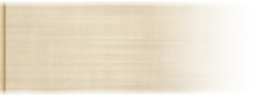
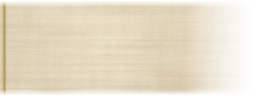
The quest pin stays red on the ashen strip, waits where the strip is drawn, and is one pin per place
From the 1600x900 captures: in Cinderlea the deep variant's blue-grey pin was lost on the grey
strip; a pin behind you waited past the strip's faded end; Wren and Merrowby stacked two pins
on one bearing; and the tracker's text ran into its plate's long fade. The fight points at the
stage's stand_at spot until its foes stand.

Claude-Session: https://claude.ai/code/session_0112mWM76VHFrF6Lkz5ygd61

Changed region(s): [[0.6562, 0.0625, 0.8125, 0.9688]]

diff --git a/tools/ui/gen_ui_textures.py b/tools/ui/gen_ui_textures.py
@@ -1375,7 +1375,7 @@ def quest_plate(rng, pal, w: int = 256, h: int = 96) -> Image.Image:
     arr[..., :3] = np.clip(arr[..., :3] + hi[..., None] * 38.0, 0, 255)
     # feathered: gone by the right edge, soft at top and bottom, a ragged fibre edge throughout
     ragged = fbm(w, h, rng, octaves=3, base=6, persistence=0.6)
-    fade_r = np.clip(((w - 1) - xs) / (w * 0.42), 0.0, 1.0) ** 1.3
+    fade_r = np.clip(((w - 1) - xs) / (w * 0.27), 0.0, 1.0) ** 1.3
     fade_v = np.clip(np.minimum(ys, (h - 1) - ys) / (5.0 + 3.0 * ragged), 0.0, 1.0)
     arr[..., 3] = 255.0 * fade_r * fade_v * 0.86
     return Image.fromarray(np.clip(arr, 0, 255).astype(np.uint8), "RGBA")
@@ -1613,7 +1613,7 @@ def build(out: Path, only: str = "") -> dict:
     if want("quest"):
         for variant, qpal in PALETTES.items():
             sfx = "" if variant == "warm" else "_deep"
-            put(f"quest_plate{sfx}", quest_plate(_rng("quest_plate" + sfx), qpal), margin=[12, 12, 110, 12])
+            put(f"quest_plate{sfx}", quest_plate(_rng("quest_plate" + sfx), qpal), margin=[12, 12, 72, 12])
             manifest["variants"].setdefault(variant, {})["quest_plate"] = f"quest_plate{sfx}"
             put(f"quest_pin{sfx}", quest_pin(_rng("quest_pin" + sfx), qpal))
             manifest["variants"][variant]["quest_pin"] = f"quest_pin{sfx}"

diff --git a/DESIGN.md b/DESIGN.md
@@ -445,13 +445,13 @@ land, the stakes, then you — and it is about ninety seconds long.
   pointed at. An objective may keep its own counsel only by saying `"hidden": true` and why
   (`"hidden_why"`); the audit (`tests/unit/test_waymarks.gd`) walks every objective of every stage
   of every quest and fails on any other that points nowhere. Other quests are not drawn on the strip.
-* On the strip each tracked objective is a pin of red sealing wax on a brass ring (bronze and ash
-  in deep places), over the place glyphs; one behind you waits at the end of the strip on the side
+* On the strip each tracked objective is a pin of red sealing wax on a brass ring (red in deep
+  places too: a bronze pin was lost on the ashen strip), over the place glyphs; one behind you waits at the end of the strip on the side
   to turn to. Within the objective's own radius (a place's, 45 m unless it says; a few metres of a
   person, a foe or a thing) the pin gives way to the soft ink smudge over the area. The chart
   shows the same pins, found or not, and its smudges over found places for every active quest.
 * The tracker: top left (the compass has the top middle, the toasts the top right), a strip of
-  parchment hung from a brass rail and fading into the country, 300 px at the 1280x720 base. It
+  parchment hung from a brass rail and fading into the country, 320 px at the 1280x720 base. It
   names the tracked quest and lists its current objectives, each with how far (5 m steps under
   100 m, 10 m under a kilometre, then "1.4 km"; nothing once within the objective's radius) and,
   for a fight or a gathering of more than one, how far along ("2/4 ash-wights", named from the
